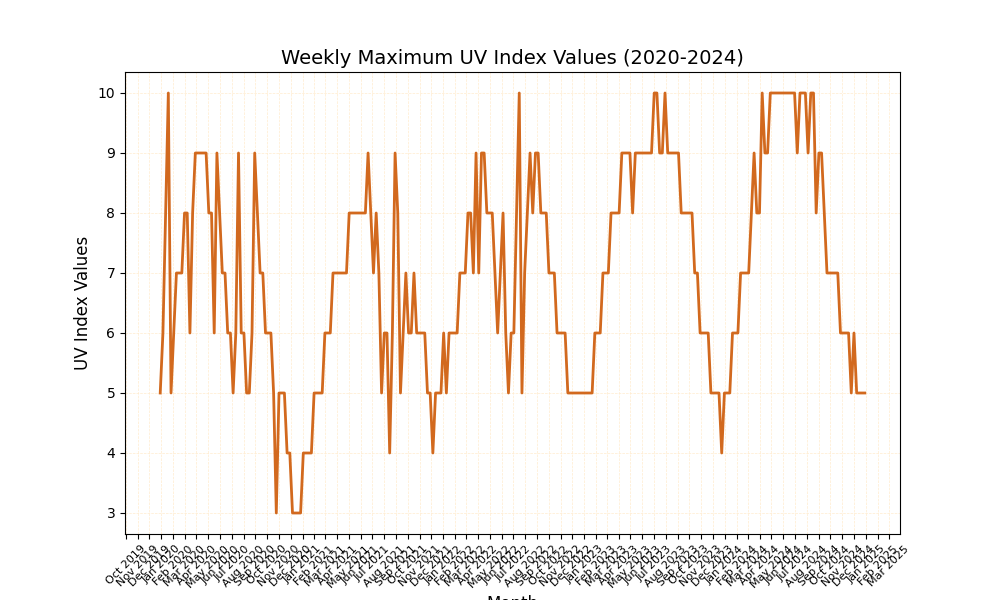
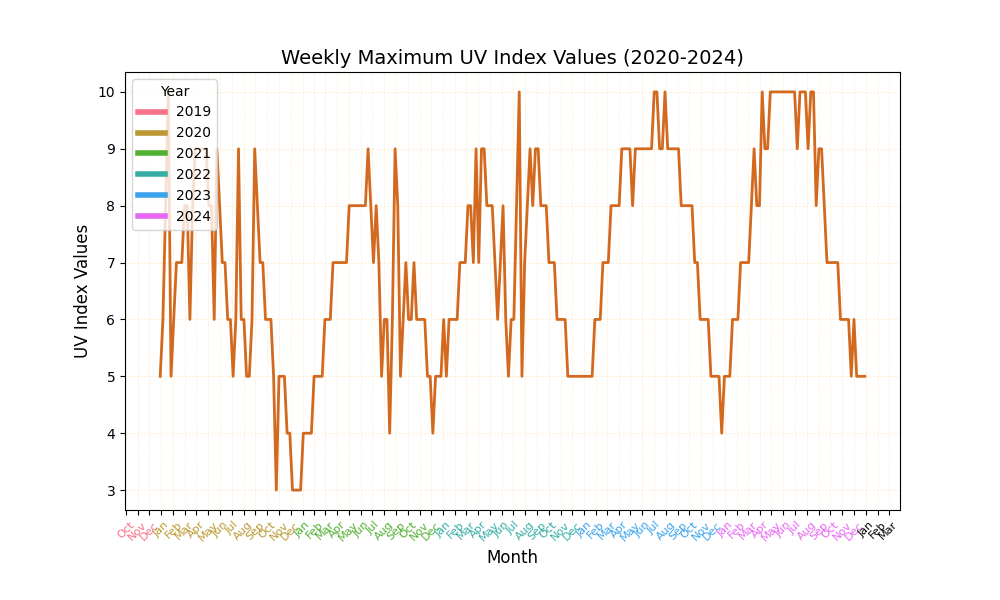
Adjusting maximum temperature and UV index time series plots to improve formatting and visibility.

diff --git a/analytics/plot-time-series/plot_max_temps.py b/analytics/plot-time-series/plot_max_temps.py
@@ -4,32 +4,50 @@ import pandas as pd
 import matplotlib.pyplot as plt
 import matplotlib.dates as mdates
 
+# Load dataset
 df = pd.read_csv("/Users/gracebeste/documents/trends-sunscreen-analysis/analytics/data/weather_trends_cleaned.csv", parse_dates=["week_start"])
-
-# Set 'week_start' as the index
 df.set_index('week_start', inplace=True)
 
-# Create a function to plot maximum temperatures over time:
-def plot_temp_over_time():
-    """Create a line plot showing the maximum temperatures over time."""
+# Extract year and month for color-coding
+df['year'] = df.index.year
+df['month'] = df.index.strftime('%b')  # Abbreviated month names (Jan, Feb, etc.)
 
-     # Create plot
-    fig, ax = plt.subplots(figsize=(10, 6))
-    ax.plot(df.index, df['tempmax'], color='darkmagenta', linewidth=2, label='Max Temp')
+# Assign unique colors to each year (for the x-axis tick mark labels)
+import seaborn as sns
+years = sorted(df['year'].unique())  
+year_colors = sns.color_palette("husl", len(years))  # Generates distinct colors
+year_color_map = {year: color for year, color in zip(years, year_colors)}
 
-    # Format axes
-    ax.xaxis.set_major_locator(mdates.MonthLocator())
-    ax.xaxis.set_major_formatter(mdates.DateFormatter('%b %Y'))
-    plt.xticks(rotation=45, fontsize=8)
+# Create plot
+fig, ax = plt.subplots(figsize=(10, 6))
+ax.plot(df.index, df['tempmax'], color='darkmagenta', linewidth=2, label='Max Temp')
 
-    # Labeling axes, creating title, and formatting background of plot
-    plt.xlabel('Month', fontsize=12) # The labels are the months for visualization purposes, even though the data is at a weekly level
-    plt.ylabel('Temperature (°F)', fontsize=12)
-    plt.title('Weekly Maximum Temperatures (2020-2024)', fontsize=14)
-    plt.grid(color='blanchedalmond', linestyle='--', linewidth=0.5)
+# Format x-axis to only show months
+ax.xaxis.set_major_locator(mdates.MonthLocator())
+ax.xaxis.set_major_formatter(mdates.DateFormatter('%b'))  # Only show month names
 
-    # Save & show
-    plt.savefig("figures/plot-time-series/weekly_max_temp.png")
-    plt.show()
+# Modify tick labels to color-code them by year
+tick_labels = [tick.get_text() for tick in ax.get_xticklabels()]
+tick_dates = [mdates.num2date(tick) for tick in ax.get_xticks()]  # Convert tick positions to dates
 
-plot_temp_over_time()
+for label, tick_date in zip(ax.get_xticklabels(), tick_dates):
+    year = tick_date.year
+    label.set_color(year_color_map.get(year, 'black'))  # Assign color based on year
+
+# Adjust label visibility
+plt.xticks(rotation=45, fontsize=8)  # Keep horizontal for clarity
+plt.subplots_adjust(bottom=0.15)  # Avoid cutoff issues for x-axis title
+
+# Label axes, title, and grid
+plt.xlabel('Month', fontsize=12)
+plt.ylabel('Temperature (°F)', fontsize=12)
+plt.title('Weekly Maximum Temperatures (2020-2024)', fontsize=14)
+plt.grid(color='blanchedalmond', linestyle='--', linewidth=0.5)
+
+# Add a legend to show which colors represent which years
+legend_patches = [plt.Line2D([0], [0], color=color, lw=4, label=str(year)) for year, color in year_color_map.items()]
+plt.legend(handles=legend_patches, title="Year", fontsize=10, loc="upper left")
+
+# Save and show
+plt.savefig("figures/plot-time-series/weekly_max_temp.png", bbox_inches='tight')
+plt.show()

diff --git a/analytics/plot-time-series/plot_max_uv.py b/analytics/plot-time-series/plot_max_uv.py
@@ -4,31 +4,52 @@ import pandas as pd
 import matplotlib.pyplot as plt
 import matplotlib.dates as mdates
 
+# Reading in dataset:
 df = pd.read_csv("/Users/gracebeste/documents/trends-sunscreen-analysis/analytics/data/weather_trends_cleaned.csv", parse_dates=["week_start"])
 
 # Set 'week_start' as the index
 df.set_index('week_start', inplace=True)
 
-def plot_uv_over_time():
-    """Create a line plot showing the maximum UV index values over time."""
+# Extract year and month for color-coding
+df['year'] = df.index.year
+df['month'] = df.index.strftime('%b')  # Abbreviated month names (Jan, Feb, etc.)
 
-    # Create plot
-    fig, ax = plt.subplots(figsize=(10, 6))
-    ax.plot(df.index, df['uvindex'], color='chocolate', linewidth=2, label='Max UV')
+# Assign unique colors to each year (for the x-axis tick mark labels)
+import seaborn as sns
+years = sorted(df['year'].unique())  
+year_colors = sns.color_palette("husl", len(years))  # Generates distinct colors
+year_color_map = {year: color for year, color in zip(years, year_colors)}
 
-    # Format axes
-    ax.xaxis.set_major_locator(mdates.MonthLocator())
-    ax.xaxis.set_major_formatter(mdates.DateFormatter('%b %Y'))
-    plt.xticks(rotation=45, fontsize=8)
+# Create plot
+fig, ax = plt.subplots(figsize=(10, 6))
+ax.plot(df.index, df['uvindex'], color='chocolate', linewidth=2, label='Max UV')
 
-    # Labeling axes, creating title, and formatting background of plot
-    plt.xlabel('Month', fontsize=12)  # The labels are the months for visualization purposes, even though the data is at a weekly level
-    plt.ylabel('UV Index Values', fontsize=12)
-    plt.title('Weekly Maximum UV Index Values (2020-2024)', fontsize=14)
-    plt.grid(color='blanchedalmond', linestyle='--', linewidth=0.5)
+# Format axes
+ax.xaxis.set_major_locator(mdates.MonthLocator())
+ax.xaxis.set_major_formatter(mdates.DateFormatter('%b')) # Only show month names
 
-    # Save & show
-    plt.savefig("figures/plot-time-series/weekly_max_uv.png")
-    plt.show()
+# Modify tick labels to color-code them by year
+tick_labels = [tick.get_text() for tick in ax.get_xticklabels()]
+tick_dates = [mdates.num2date(tick) for tick in ax.get_xticks()]  # Convert tick positions to dates
 
-plot_uv_over_time()
+for label, tick_date in zip(ax.get_xticklabels(), tick_dates):
+    year = tick_date.year
+    label.set_color(year_color_map.get(year, 'black'))  # Assign color based on year
+
+# Adjust label visibility
+plt.xticks(rotation=45, fontsize=8)
+plt.subplots_adjust(bottom=0.15)  # Avoid cutoff issues for x-axis title
+
+# Labeling axes, creating title, and formatting background of plot
+plt.xlabel('Month', fontsize=12)  # The labels are the months for visualization purposes, even though the data is at a weekly level
+plt.ylabel('UV Index Values', fontsize=12)
+plt.title('Weekly Maximum UV Index Values (2020-2024)', fontsize=14)
+plt.grid(color='blanchedalmond', linestyle='--', linewidth=0.5)
+
+# Add a legend to show which colors represent which years
+legend_patches = [plt.Line2D([0], [0], color=color, lw=4, label=str(year)) for year, color in year_color_map.items()]
+plt.legend(handles=legend_patches, title="Year", fontsize=10, loc="upper left")
+
+# Save & show
+plt.savefig("figures/plot-time-series/weekly_max_uv.png")
+plt.show()
